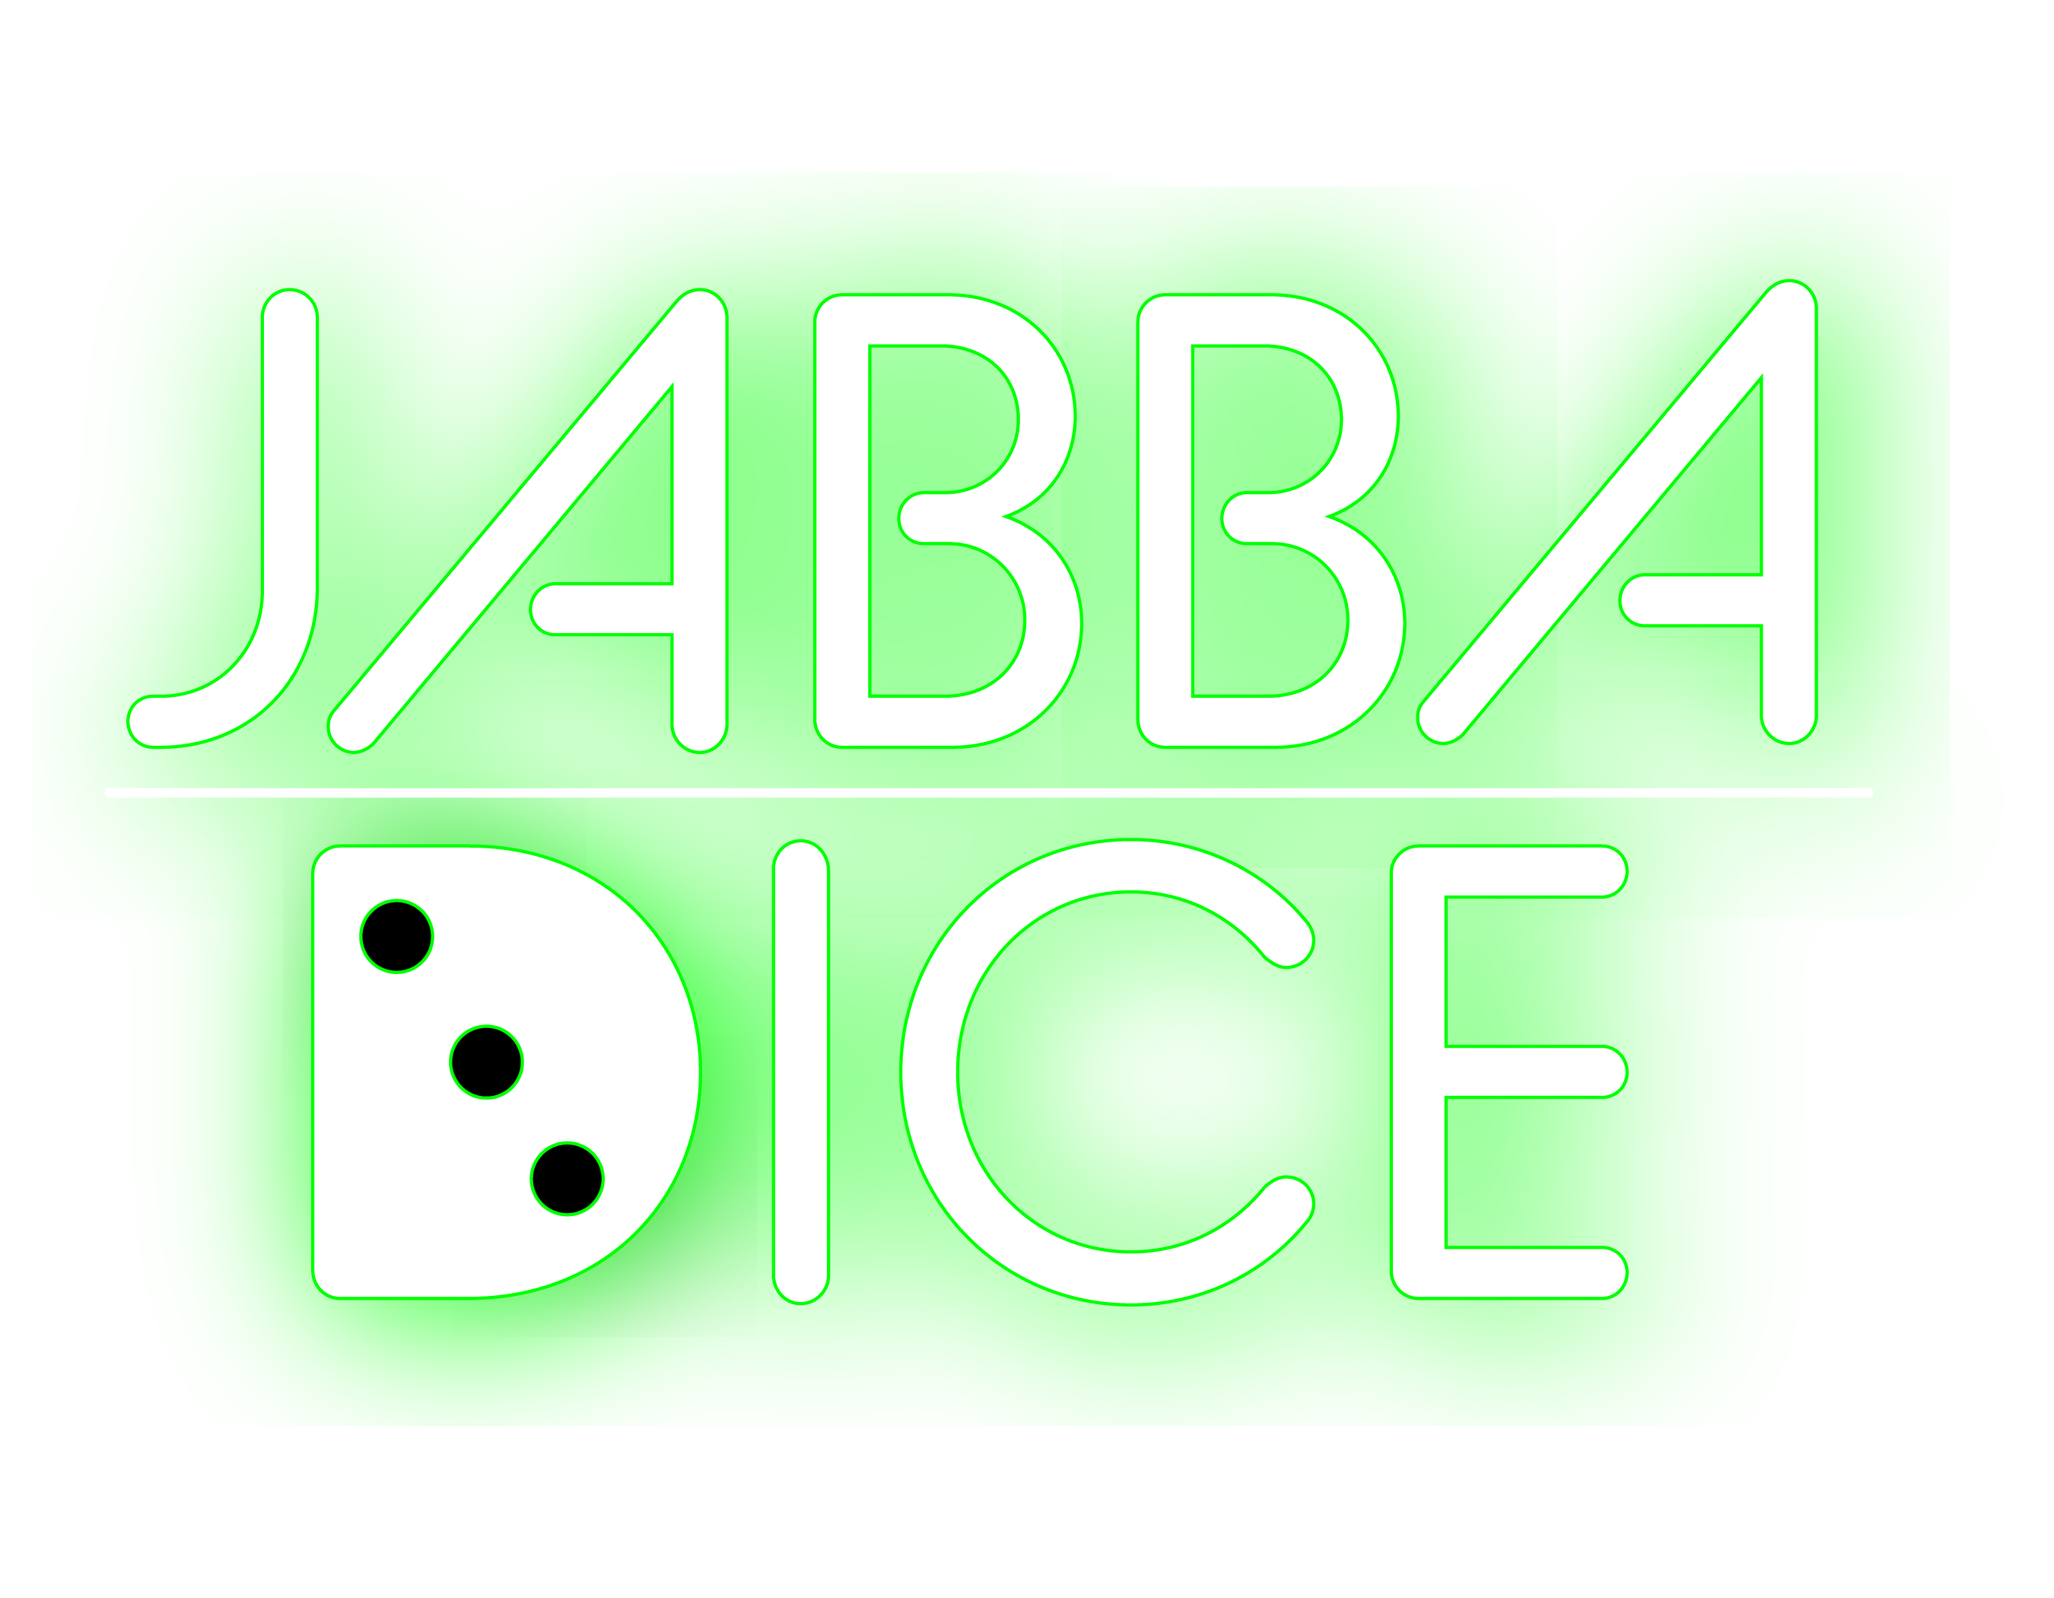
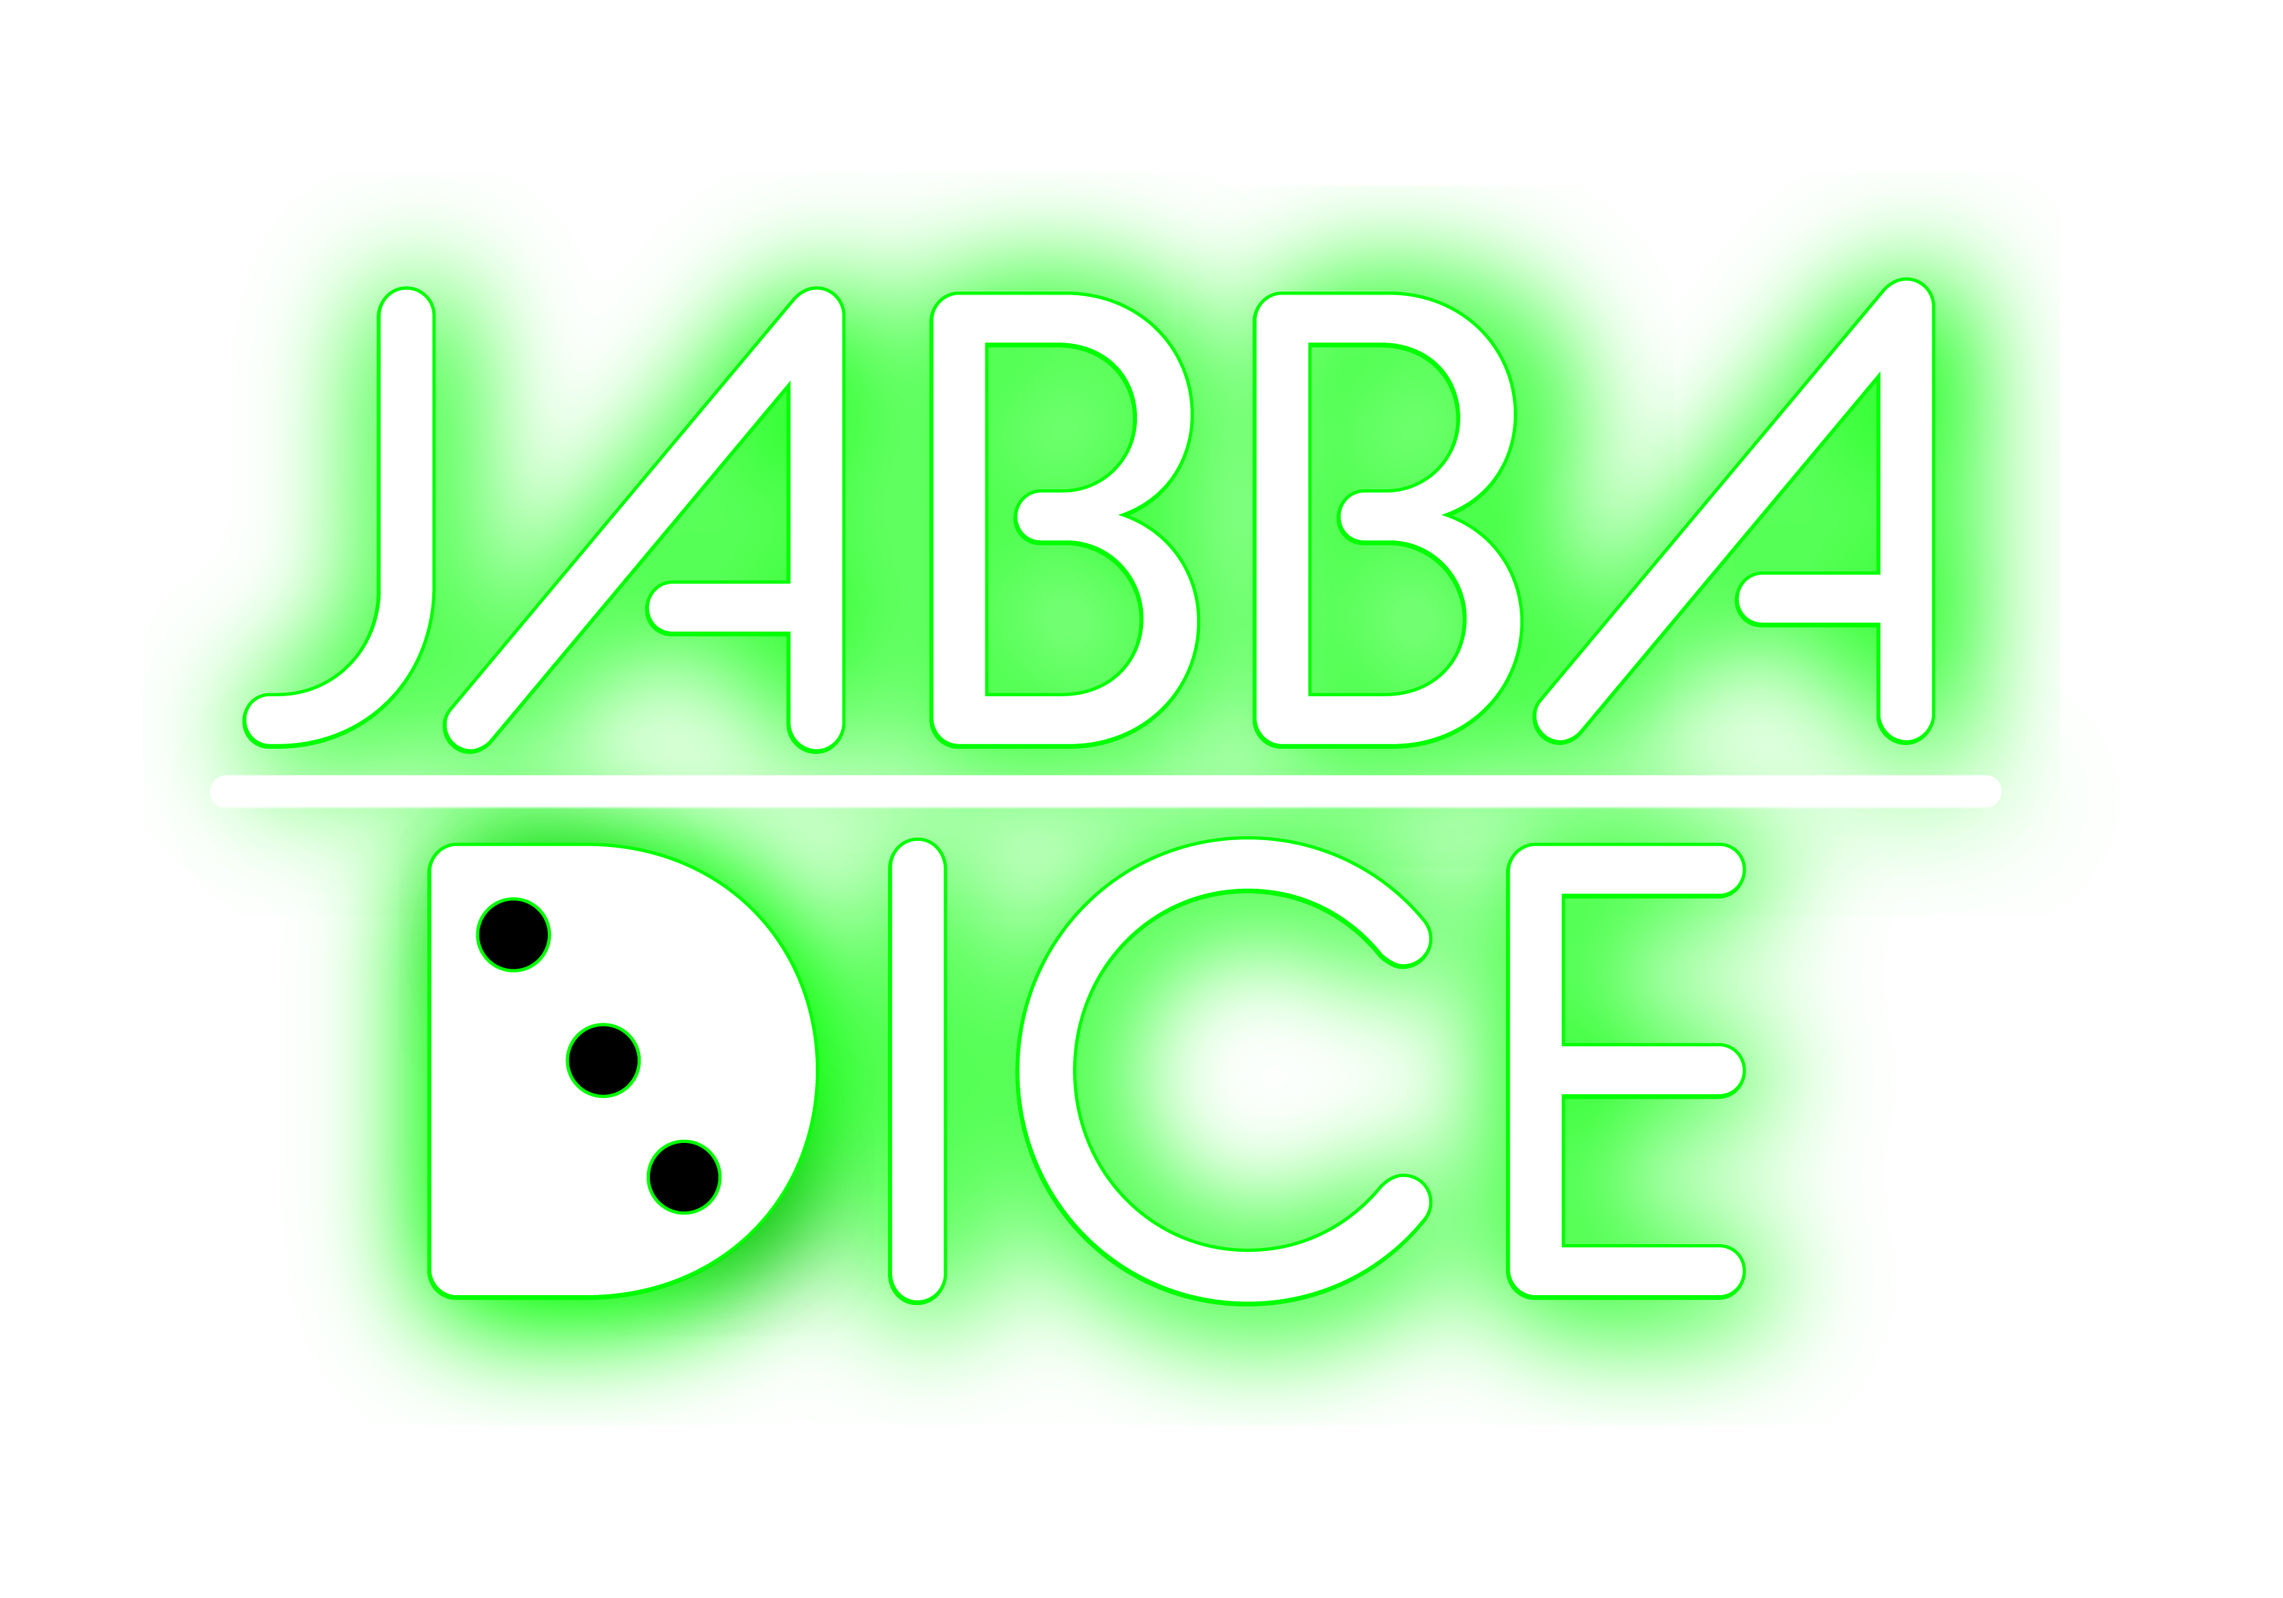
updated cover image

diff --git a/css/coverpage.css b/css/coverpage.css
@@ -7,13 +7,13 @@ body {
 button {
     position: absolute;
     font-size: 50px;
-    margin-left: 100px;
-    margin-top: 100px;
-    width: 550px;
+    margin-left: 50px;
+    margin-top: 10px;
+    width: 600px;
     height: 450px;
     border-color: rgba(0, 0, 0, 0);
     background-color: rgba(255, 255, 255, 0);
-    background-image: url('../assets/img/jabba-glow.png');
+    background-image: url('../assets/img/jabba-glow2.png');
     background-size: cover;
 }
 
